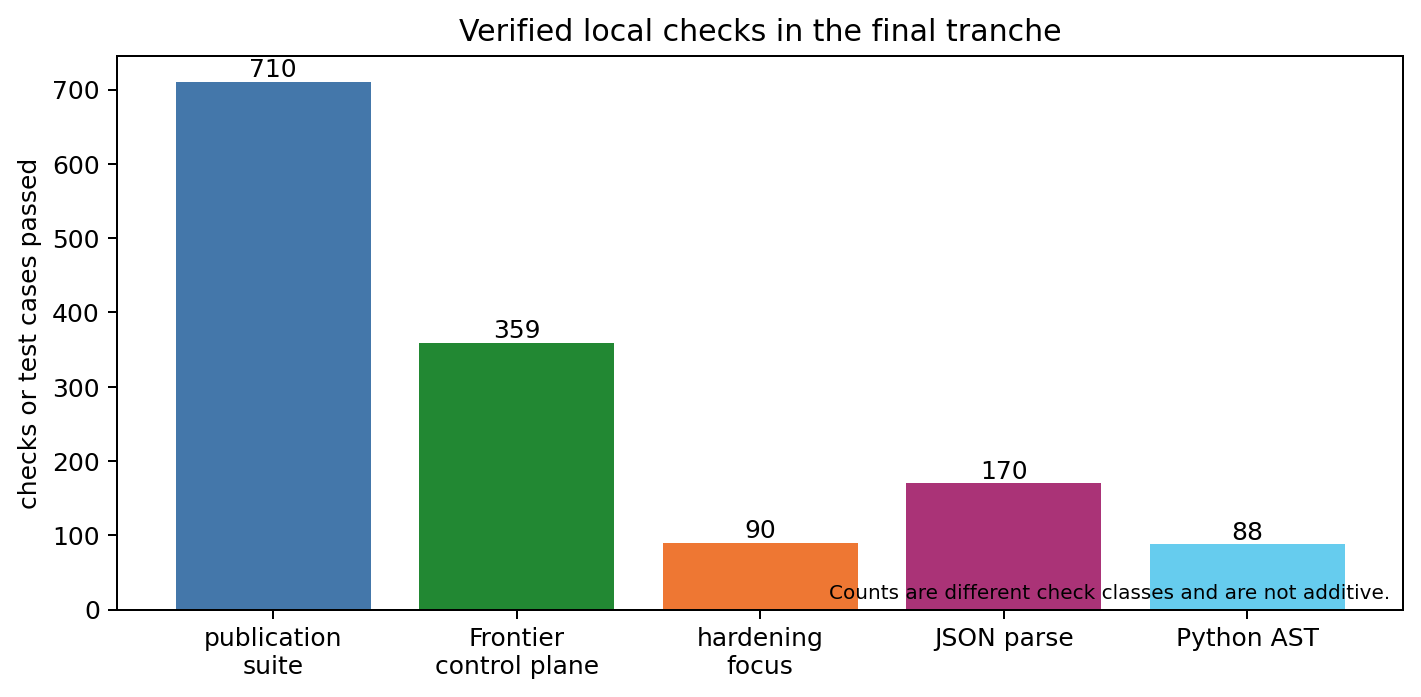
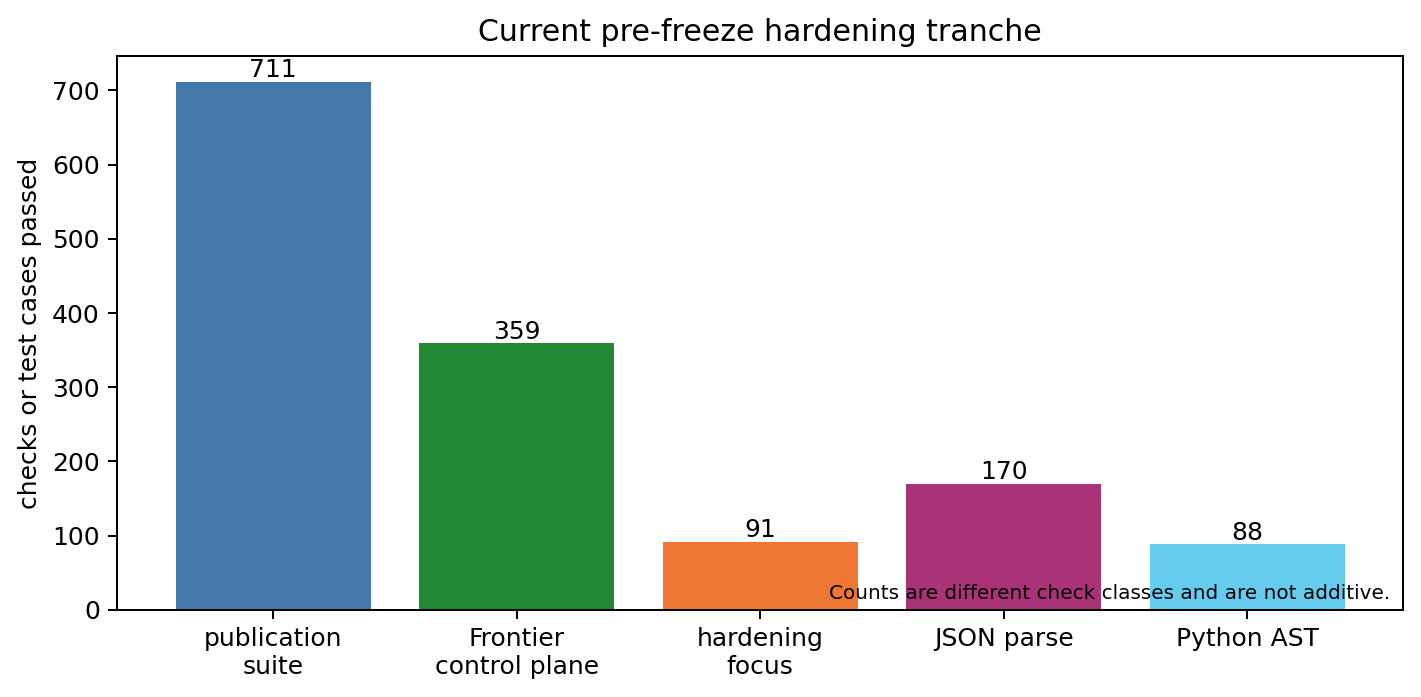
docs(pic): reconcile pre-freeze sealed-snapshot status

diff --git a/STATUS_UPDATE.md b/STATUS_UPDATE.md
@@ -4,7 +4,7 @@
 | --- | --- |
 | Date | 2026-05-31 |
 | Repository | AthenaK MHD-PIC worktree at `/ccs/home/dfielding/athenak-pic` |
-| Branch and commit | `PIC` code-and-control-plane parent commit `bd715a2a2bf7b3c3ac30d7e0cd3b23422c3c837d`; tracking `origin/PIC`; local branch is 104 commits ahead before the report-only snapshot commit |
+| Branch and commit | `PIC` report snapshot commit `897ca86ab61d6393f23122dcb842b1c84360aa18`; tracking `origin/PIC`; local branch is 105 commits ahead before the sealed-snapshot transition repair commit |
 | Agent | Codex |
 | Governing plan | `tst/publication/PIC_PRODUCTION_READINESS_PLAN.md` |
 | Data analyzed | Frozen Q006, Q007, Q008 and Q011 local-readiness artifacts; retained read-only Q023 Bell source-local smoke; authoritative Frontier node-hour ledger |
@@ -35,7 +35,7 @@ The retained Q023 Bell source-local smoke provides a limited physical picture. I
 
 ![Q023 Bell MHD fields and missing same-run PIC output](figures/status_update/q023_bell_mhd_pic_qualitative_gap.png)
 
-*Figure 2. Actual Q023 2D source-local Bell-smoke MHD outputs. The upper-left panel shows the initialized transverse magnetic perturbation $\delta B_z$ at cycle zero. The upper-right and lower-left panels show $\delta B_z$ and $\delta u_z$ after the retained one-cycle restart continuation at $t=0.0015625$. Each quantitative panel has its own labeled color scale. The lower-right panel records the missing same-run particle-space product: CR particles were coupled internally and preserved in restart payloads, but no particle VTK or phase-space snapshot was serialized. This is bounded preparation evidence, not instability-growth qualification.*
+*Figure 2. Actual Q023 2D source-local Bell-smoke MHD outputs. The upper-left panel shows the initialized transverse magnetic perturbation $\delta B_z$ at cycle zero. The upper-right and lower-left panels show $\delta B_z$ and $\delta u_z$ after the retained one-cycle restart continuation at $t=0.0015625$. Each quantitative panel has its own labeled color scale. The lower-right panel records the missing same-run particle-space product: CR particles were coupled internally and restart payloads were retained, but no particle VTK or phase-space snapshot was serialized. This is bounded preparation evidence, not instability-growth qualification.*
 
 The clearest positive scientific-software result in this tranche is the expanding-box circularly polarized Alfvén wave successor, Q008. Its 22 retained cases span expanding, compressing, static, solver, dimensional-axis and resolution checks. For the four literal-profile convergence families, both amplitude and phase residuals fall as the resolution increases from $N_x=32$ to $64$ to $128$. This is an observed three-resolution trend, not an asymptotic-order proof.
 
@@ -59,7 +59,7 @@ The strongest statements we can make are local ones: the bounded successors ran,
 
 The largest remaining uncertainty is not a single bug. It is the unclosed transition from bounded local engineering evidence to physical and operational qualification: long-horizon paper campaigns, calibrated extension comparisons, MPI/GPU and multi-node checks, restart and filesystem failure drills on Frontier, scaling and memory measurements, Orion-retention disposition, and named external review.
 
-Source curation is complete through code-and-control-plane parent commit `bd715a2a2bf7b3c3ac30d7e0cd3b23422c3c837d`. Independent review found two freeze blockers: candidate creation accepted an operator-selected prepared-artifact subset, and retained-tree analyzers reopened Orion pathnames after verification. The committed hardening tranche requires the canonical complete archived deck-and-analyzer inventory and routes Q006, Q007, and Q011 inputs through descriptor-anchored private snapshots; this pending report layer applies the same rule to status-figure inputs. The canonical schema-v4 source-bundle and HIP/MPI executable freeze has not yet been created. The sensible next step is to commit and independently rereview the report layer, install the paired control-plane generation, build the canonical HIP/MPI release executable, and freeze the clean candidate before registering another Frontier slice. The Q006 residual pattern makes AMR/restart parity a priority after that freeze: bind its acceptance threshold before submission and use the slice to test whether decomposition or device execution changes the bounded carrier result. Large paper or extension campaigns should not begin until their campaign-specific registrations, tolerances and independent comparison inputs are frozen.
+Source curation was committed through report snapshot `897ca86ab61d6393f23122dcb842b1c84360aa18`, then a fresh independent audit found a deeper same-account substitution risk in the copied-snapshot handoff. The pending repair keeps verified topology in memory and exposes consumed regular files lazily through sealed Linux `memfd` descriptors. Q006, Q007 and Q011 retained-artifact replays reproduce their archived results through those sealed members. The report generator applies the same anchored sealed-member rule to frozen JSON inputs and the legacy Q023 Bell payloads. The source-side transition policy now clears inherited schema-v3 science registrations and marks the schema-v4 clean-candidate freeze pending. The canonical schema-v4 source bundle and HIP/MPI executable freeze have not yet been created. The sensible next step is to commit and independently rereview this repair, install the paired control-plane generation, build the canonical HIP/MPI release executable, and freeze the clean candidate before registering another Frontier slice. The Q006 residual pattern makes AMR/restart parity a priority after that freeze: bind its acceptance threshold before submission and use the slice to test whether decomposition or device execution changes the bounded carrier result. Large paper or extension campaigns should not begin until their campaign-specific registrations, tolerances and independent comparison inputs are frozen.
 
 # Tier 1: How the analysis works
 
@@ -69,7 +69,7 @@ The software objective was to advance the production-readiness plan while preser
 
 The current evidence flow is:
 
-1. Bind a clean serial-host executable and record its SHA-256.
+1. Bind the retained bounded host executable and record its SHA-256. This historical pin came from a clean build directory over a dirty source worktree; it is not the canonical clean-source release executable.
 2. Materialize a narrowly scoped runtime or source-local successor.
 3. Write all bulk output below `/lustre/orion/ast207/proj-shared/dfielding/PIC`.
 4. Freeze the artifact tree and compute an inventory hash.
@@ -79,13 +79,13 @@ The current evidence flow is:
 
 ![Verifier hardening schematic](figures/status_update/verifier_hardening_schematic.png)
 
-*Figure 6. Schematic summary of verifier hardening. Mutable paths, partial-schema acceptance and loose replay checks were replaced by descriptor-anchored private snapshots, pinned archive or executable hashes, exact schemas, directory closure and bounded diagnostics. This matters because a verifier should reject ambiguous evidence rather than silently reinterpret it.*
+*Figure 6. Schematic summary of verifier hardening. Mutable payload paths, partial-schema acceptance and loose replay checks were replaced by anchored verification, sealed descriptor-backed regular members, immutable topology maps, pinned archive or executable hashes, exact schemas, directory closure and bounded diagnostics. This matters because a verifier should reject ambiguous evidence rather than silently reinterpret it.*
 
 ## 1.2 Frozen inputs
 
 | Artifact | Retained role | Inventory SHA-256 | Retained files | Qualification effect |
 | --- | --- | --- | ---: | --- |
[5 lines of base64/hex data omitted]
@@ -93,7 +93,7 @@ The current evidence flow is:
[2 lines of base64/hex data omitted]
 
[2 lines of base64/hex data omitted]
 
 ## 1.3 Core definitions
 
@@ -198,13 +198,13 @@ Q011 retains 309 particles. Its eight octant counts are `[40, 34, 28, 39, 38, 38
 
 ## 1.5 Validation strategy
 
-The final local validation tranche combined broad test suites, focused regressions, static checks, documentation checks, retained-runtime analysis and visual inspection of the generated figures. The counts below are manually curated observations from this work session, not a retained signed validation receipt. Figure 12 is therefore a visual summary rather than a provenance-bearing test artifact.
+The current pre-freeze local validation tranche combined broad test suites, focused regressions, static checks, documentation checks, retained-runtime analysis and visual inspection of the generated figures. The counts below are manually curated observations from this work session, not a retained signed validation receipt. Figure 12 is therefore a visual summary rather than a provenance-bearing test artifact.
 
 | Validation class | Actual result | Interpretation |
 | --- | --- | --- |
-| Publication Python suite | 710 tests passed; 2 skipped | Combined broad local publication and nested control-plane discovery passed |
+| Publication Python suite | 711 tests passed; 2 skipped | Combined broad local publication and nested control-plane discovery passed |
 | Frontier control-plane suite | 359 tests passed | Registered-lifecycle and accounting controls passed locally |
-| Focused hardening suite | 90 tests passed | Qualification fixtures, immutable snapshots, analyzer substitution rejection and successor-policy registry checks passed |
+| Focused hardening suite | 91 tests passed | Qualification fixtures, immutable snapshots, analyzer substitution rejection and successor-policy registry checks passed |
 | Sphinx warning-as-error build | Passed | Documentation renders without warning regressions |
 | Readiness JSON parse sweep | 170 filesystem JSON files parsed | Readiness, policy and generated figure-metric sidecars are syntactically valid |
 | Python AST sweep | 88 publication Python files parsed | Publication Python sources are syntactically valid |
@@ -214,13 +214,13 @@ The final local validation tranche combined broad test suites, focused regressio
 
 ![Validation summary](figures/status_update/validation_summary.png)
 
-*Figure 12. Manually curated summary of passed local check classes in the final tranche. Counts represent different classes and are not additive; parsed-file counts are not test counts. The inherited repository-wide style baseline remains separately open.*
+*Figure 12. Manually curated summary of passed local check classes in the current pre-freeze hardening tranche. Counts represent different classes and are not additive; parsed-file counts are not test counts. The final clean-tree rerun remains required after the pending repair commit. The inherited repository-wide style baseline remains separately open.*
 
 ## 1.6 Caveats and next-stage plan
 
 The current evidence is strongest for bounded serial-host mechanics and verifier behavior. It is not yet strong enough for physical paper claims or operational production claims. The immediate next-stage sequence is:
 
-1. Commit and rereview the hardening tranche plus report snapshot, install the reviewed control-plane generation and freeze the canonical clean candidate.
+1. Commit and rereview the sealed-snapshot transition repair, install the paired reviewed control-plane generation and freeze the canonical clean candidate.
 2. Close prerequisite-complete registered Frontier MPI/HIP slices one at a time under the existing ledger policy after the freeze.
 3. Add runtime, memory, sorting, deposition, coupling, communication and load-balance telemetry before scaling studies.
 4. Freeze external-reference mappings and tolerances before physical comparison campaigns.
@@ -240,7 +240,7 @@ The governing scientific task is broader than local correctness. It includes rep
 
 This report covers the bounded local-readiness work curated into the current commit series:
 
-- clean serial-host pinning and immutable Orion-tree verification;
+- dirty-worktree bounded host pinning from a clean build directory and immutable Orion-tree verification;
 - Q023 Bell source-local MHD initialization and one-cycle restart-continuation visualization;
 - Q006 exact-isothermal multispecies mechanics successors;
 - Q007 source-local delta-f launch and replay hardening;
@@ -257,7 +257,7 @@ Intentionally deferred work includes production-scale Frontier campaigns, broad 
 
 | Path | Content | Notes |
 | --- | --- | --- |
-| `/lustre/orion/ast207/proj-shared/dfielding/PIC/local-readiness/integrated-serial-host-binary-clean-20260531T034317Z` | Clean executable pin and source archive | Shared local binding anchor |
+| `/lustre/orion/ast207/proj-shared/dfielding/PIC/local-readiness/integrated-serial-host-binary-clean-20260531T034317Z` | Dirty-worktree bounded host pin produced from a clean build directory | Shared local binding anchor only; not the canonical clean-source release executable |
 | `/lustre/orion/ast207/proj-shared/dfielding/PIC/q006-exact-isothermal-runtime-local-20260531-v4` | Q006 runtime tree and `reports/probe_summary.json` | 329 files |
 | `/lustre/orion/ast207/proj-shared/dfielding/PIC/local-readiness/q007-paper-deltaf-runtime-replay-20260531-v4` | Q007 runtime tree | 38 files |
[1 lines of base64/hex data omitted]
@@ -475,9 +475,9 @@ The Q006, Q007, Q008 and Q011 evidence and the Q023 Bell smoke reported here are
 
 | Test | Purpose | Method | Actual result | Tolerance or pass rule | Status |
 | --- | --- | --- | --- | --- | --- |
-| Publication suite | Exercise publication analyzers and verifier contracts | Python unit discovery under `tst/publication` with the control-plane import path | 710 passed, 2 skipped | No failures | Pass |
+| Publication suite | Exercise publication analyzers and verifier contracts | Python unit discovery under `tst/publication` with the control-plane import path | 711 passed, 2 skipped | No failures | Pass |
 | Frontier control-plane suite | Exercise registered lifecycle, immutable promotion and ledger controls | Python unit discovery under `tst/publication/frontier_control_plane` | 359 passed | No failures | Pass |
-| Hardening focus | Stress candidate closure, descriptor snapshots and registry lifecycle | Focused publication tests | 90 passed | No failures | Pass |
+| Hardening focus | Stress candidate closure, descriptor snapshots and registry lifecycle | Focused publication tests | 91 passed | No failures | Pass |
 | Documentation | Detect warning regressions | Sphinx HTML build with `-W --keep-going -E` | Passed | No Sphinx warnings | Pass |
 | Readiness JSON syntax | Detect malformed readiness records | Parse readiness, policy and generated figure-metric JSON files | 170 parsed | No parse errors | Pass |
 | Python syntax | Detect malformed publication Python sources | AST parse sweep | 88 parsed | No syntax errors | Pass |
@@ -525,7 +525,7 @@ Earlier implementation work used independent subagents to split Q006, Q007, Q008
 
 The following statements are supported by retained local evidence:
 
-1. The clean serial-host executable pin and source archive are inventoried and hash-bound.
+1. The dirty-worktree bounded host executable pin and source archive are inventoried and hash-bound. The build directory was clean; the archived source worktree was not.
 2. Q006 uniform mechanics closure is near numerical precision, while SMR and AMR restart carriers expose larger observed short-horizon residuals without a frozen mesh-transition acceptance threshold.
 3. Q007 source-local initialization produces the intended four-branch $10^{-6}/m$ spectrum and exact zero initial delta-f weights for all three startup carriers.
 4. Q008's 22-case bounded serial-host preparation matrix remains inside its coarse preparation guardrails, rejects unsupported Roe use without outputs, and shows decreasing amplitude and phase errors over its retained resolution families.
@@ -595,7 +595,7 @@ The repository-wide C++ style baseline remains open. A fresh wrapper-equivalent 
 
 ## 2.9 Recommended next steps
 
-1. **Immediate:** commit and rereview the hardening tranche plus report snapshot, install the reviewed control-plane generation, build the canonical HIP/MPI release executable and freeze the clean candidate.
+1. **Immediate:** commit and rereview the sealed-snapshot transition repair, install the paired reviewed control-plane generation, build the canonical HIP/MPI release executable and freeze the clean candidate.
 2. **Validation:** run the next prerequisite-complete registered Frontier MPI/HIP slice under the serialized scheduler policy and reconcile the ledger immediately.
 3. **Production preparation:** add runtime and memory telemetry for pusher, deposition, coupling, communication, sorting, AMR, load balance, output and restart paths.
 4. **Scientific qualification:** freeze comparison mappings, extracted reference data, tolerances, fit windows, seeds and uncertainty methods before launching physical Hall Bell, damped-CRSI or adaptive-delta-f CRPAI campaigns. Require same-run particle distribution, current and field snapshots for Bell visualization.
@@ -610,16 +610,16 @@ The repository-wide C++ style baseline remains open. A fresh wrapper-equivalent 
 | Repository path | `/ccs/home/dfielding/athenak-pic` |
 | Resolved path in this environment | `/autofs/nccs-svm1_home2/dfielding/athenak-pic` |
 | Branch | `PIC` |
-| HEAD | Code-and-control-plane parent `bd715a2a2bf7b3c3ac30d7e0cd3b23422c3c837d`; report snapshot pending commit |
+| HEAD | Report snapshot `897ca86ab61d6393f23122dcb842b1c84360aa18`; sealed-snapshot transition repair pending commit |
 | Upstream | `origin/PIC` |
-| Ahead/behind | 104 ahead, 0 behind before the report-only snapshot commit |
-| Worktree | Report snapshot paths remain pending commit |
+| Ahead/behind | 105 ahead, 0 behind before the sealed-snapshot transition repair commit |
+| Worktree | Sealed-snapshot verifier repair, transition policy, regenerated prepared-artifact inventory, refreshed figures and this report update remain pending commit |
 | Deleted files | None observed |
 | New report | `STATUS_UPDATE.md` |
 | New figure generator | `tst/publication/generate_pic_status_update_figures.py` |
 | New figure directory | `figures/status_update/` |
 
-The remaining worktree changes are this report, its fail-closed figure generator, and generated figures. Do not treat the curated commit series as a frozen release baseline until the canonical clean-candidate operation archives the source bundle and HIP/MPI executable together. Inspect the current list with:
+The remaining worktree changes are the sealed-snapshot verifier repair, analyzer routing updates, transition policy, regenerated prepared-artifact inventory, refreshed report generator outputs and this report update. Do not treat the curated commit series as a frozen release baseline until those changes are committed and rereviewed and the canonical clean-candidate operation archives the source bundle and HIP/MPI executable together. Inspect the current list with:
 
 ```bash
 git status --short --branch
@@ -629,14 +629,16 @@ git status --short --branch
 
 | Boundary | Current value | Status |
 | --- | --- | --- |
[6 lines of base64/hex data omitted]
 | Canonical schema-v4 freeze | Not yet created | Open Phase 0 gate |
 
-The live policy intentionally keeps its installed and staged fields paired at
-the historical generation until promotion. The successor digest is recorded
-separately in
+The live installed policy intentionally remains paired at the historical
+generation until promotion. The pending source-side transition policy pairs
+both controller fields at the successor digest, clears inherited science
+registrations and marks the schema-v4 freeze pending. The successor digest is
+recorded separately in
 `tst/publication/readiness/phase0_curated_candidate_successor_2026-05-31.json`.
 This prevents a reviewed source generation from being confused with an
 installed or authorized production baseline.
@@ -666,7 +668,7 @@ Run from the repository root:
 python3 tst/publication/generate_pic_status_update_figures.py
 ```
 
[2 lines of base64/hex data omitted]
 
 ```text
 figures/status_update/
@@ -684,7 +686,41 @@ figures/status_update/figure_metrics.json
 python3 tst/publication/generate_pic_status_update_figures.py
 ```
 
-Do not replace that command with a `sha256sum` listing of manifest files. The generator uses `tst/publication/immutable_orion_tree.py` for inventory membership, payload hashes and recursive modes, applies a legacy aggregate read-only check to the older Q023 Bell smoke, then imports the paired installed control plane selected by `policy/active_promotion.json` to validate active policy and the mirrored ledger chain. A later legitimate ledger append requires an intentional report-snapshot refresh rather than silent figure drift.
+Do not replace that command with a `sha256sum` listing of manifest files. The generator uses `tst/publication/immutable_orion_tree.py` for inventory membership, payload hashes, recursive modes, anchored legacy-Q023 traversal and sealed lazy payload materialization, then imports the paired installed control plane selected by `policy/active_promotion.json` to validate active policy and the mirrored ledger chain. A later legitimate ledger append requires an intentional report-snapshot refresh rather than silent figure drift.
+
+### Local Python validation
+
+Run the broad publication suite with the nested control-plane modules on `PYTHONPATH`:
+
+```bash
+PYTHONDONTWRITEBYTECODE=1 \
+PYTHONPATH=.:tst/publication/frontier_control_plane \
+python3 -B -m unittest discover -s tst/publication -p 'test_*.py' -q
+```
+
+Run the control-plane suite independently:
+
+```bash
+PYTHONDONTWRITEBYTECODE=1 \
+PYTHONPATH=. \
+python3 -B -m unittest discover \
+  -s tst/publication/frontier_control_plane -p 'test_*.py' -q
+```
+
+The focused sealed-snapshot and rebinding rerun is:
+
+```bash
+PYTHONDONTWRITEBYTECODE=1 \
+PYTHONPATH=. \
+python3 -B -m unittest -q \
+  tst.publication.test_pic_qualification_manifest \
+  tst.publication.test_immutable_orion_tree \
+  tst.publication.test_analyze_q011_injection_distribution_runtime_local \
+  tst.publication.test_analyze_q006_paper_multispecies_oscillation_runtime_local \
+  tst.publication.test_analyze_q007_paper_deltaf_linear_preparation \
+  tst.publication.test_pic_readiness_registry.PicReadinessRegistryTests.test_storage_policy_records_authorized_frontier_boundary \
+  tst.publication.test_pic_readiness_registry.PicReadinessRegistryTests.test_registered_science_staged_bindings_recompute_from_exact_files
+```
 
 ### Documentation verification
 
@@ -712,7 +748,41 @@ python3 -m venv /tmp/athenak-pic-docs-venv
 git diff --check
 ```
 
-The final tranche also ran readiness-JSON parsing, Python AST parsing, touched-file C++ lint and a repository-wide C++ baseline lint. The changed-file lint wrapper and direct lint of the new Q006 C++ source passed. The repository-wide baseline remains open: a fresh wrapper-equivalent read-only scan reported 1,454 findings while the retained Q042 sidecar records 1,456. No single retained final receipt closes that inherited-debt count.
+Parse the exact filesystem JSON scope, including the two `tst/.codex` Bell-materialization files and generated report metrics:
+
+```bash
+python3 - <<'PY'
+import json
+from pathlib import Path
+paths = sorted({*Path("tst").rglob("*.json"), *Path("figures").rglob("*.json")})
+for path in paths:
+    json.loads(path.read_text(encoding="utf-8"))
+print(len(paths))
+PY
+```
+
+Parse the publication Python sources:
+
+```bash
+python3 - <<'PY'
+import ast
+from pathlib import Path
+paths = sorted(Path("tst/publication").rglob("*.py"))
+for path in paths:
+    ast.parse(path.read_text(encoding="utf-8"), filename=str(path))
+print(len(paths))
+PY
+```
+
+The touched C++ lint and repository-wide baseline commands are:
+
+```bash
+python3 tst/scripts/style/cpplint.py \
+  src/pgen/tests/q006_paper_multispecies_oscillation_runtime_local.cpp
+bash tst/scripts/style/check_athena_cpp_style.sh
+```
+
+The changed-file lint and direct lint of the new Q006 C++ source passed. The repository-wide baseline remains open: a fresh wrapper-equivalent read-only scan reported 1,454 findings while the retained Q042 sidecar records 1,456. No single retained final receipt closes that inherited-debt count.
 
 ### Scheduler policy
 
@@ -757,8 +827,8 @@ The next-stage compute cost cannot be estimated defensibly yet because productio
 | --- | --- | --- | ---: | --- | --- |
 | `STATUS_UPDATE.md` | This multi-tier report | Generated | Markdown text | Yes | Yes, with editorial work |
 | `figures/status_update/` | Report figures and plotted metrics | Generated | Small report bundle | Yes | Yes |
-| `tst/publication/generate_pic_status_update_figures.py` | Fail-closed figure generator | Report-only snapshot path | Python source | Yes | Include in report-only commit |
-| `/lustre/orion/ast207/proj-shared/dfielding/PIC/local-readiness/integrated-serial-host-binary-clean-20260531T034317Z` | Clean serial-host pin | Frozen | 26.6 MiB | Yes | Rebuildable, but preserve this pin |
+| `tst/publication/generate_pic_status_update_figures.py` | Fail-closed figure generator | Tracked report snapshot path with pending sealed-member repair | Python source | Yes | Preserve after repair commit |
+| `/lustre/orion/ast207/proj-shared/dfielding/PIC/local-readiness/integrated-serial-host-binary-clean-20260531T034317Z` | Dirty-worktree bounded host pin from clean build directory | Frozen | 26.6 MiB | Yes | Preserve as bounded local evidence; never reuse as canonical release executable |
 | `/lustre/orion/ast207/proj-shared/dfielding/PIC/q006-exact-isothermal-runtime-local-20260531-v4` | Q006 mechanics artifacts | Frozen | 1.15 GiB | Yes | Rerunnable, but preserve retained evidence |
 | `/lustre/orion/ast207/proj-shared/dfielding/PIC/local-readiness/q007-paper-deltaf-runtime-replay-20260531-v4` | Q007 replay artifacts | Frozen | 112.2 MiB | Yes | Rerunnable, but preserve retained evidence |
 | `/lustre/orion/ast207/proj-shared/dfielding/PIC/local-readiness/q007-paper-deltaf-runtime-replay-20260531-v4-analysis.json` | Q007 adjacent exact analysis input for report figures | Read-only adjacent JSON; SHA-256 `bd1eb4dc...` | 53.0 KiB | Yes | Rerunnable, but preserve retained evidence |
@@ -851,7 +921,7 @@ Human input is required before:
 
 # Appendix B: Review disposition
 
-Five independent post-draft reviews were completed and reconciled. The reviewers checked different reading depths so that a correction made for one audience did not silently leave a stronger claim in another tier.
+Five independent post-draft reviews were completed and reconciled before report snapshot commit `897ca86ab61d6393f23122dcb842b1c84360aa18`. A later independent code audit found the same-account copied-snapshot substitution blocker described above. Its sealed-member repair is pending a fresh stable-boundary rereview before paired installation or freeze.
 
 | Review | Audit focus | Material disposition |
 | --- | --- | --- |
@@ -860,5 +930,6 @@ Five independent post-draft reviews were completed and reconciled. The reviewers
 | Tier 2 expert audit | Definitions, support for claims, validation and caveats | Added Q006 deck scope, Q007 convention caveats, Q008 oracle limitations, Q011 contract limits and manually curated validation-count caveats |
 | Tier 3 reproducibility audit | Paths, commands, accounting and handoff | Hardened the generator around verified inventories, active policy, mirrored ledgers, adjacent Q007 digest and the explicitly pinned ledger tail |
 | Adversarial whole-report challenge | Overstatement, hidden assumptions, negative results and cross-tier consistency | Narrowed implemented-path claims, preserved rejected operational chronology and the stale Q008 probe, reported failed-node-hour consumption and replaced the draft marker in this appendix |
+| Post-snapshot code audit | Same-account substitution and stable-boundary freeze safety | Rejected the copied-path snapshot handoff; pending repair uses anchored topology maps, sealed lazy regular members and context-local Q006/Q007 routing |
 
-The reconciliation deliberately rejected any suggestion that would promote bounded local preparation into physical qualification or Frontier production readiness. The remaining open gates are listed in Sections 2.8 and 3.5.
+The reconciliation deliberately rejected any suggestion that would promote bounded local preparation into physical qualification or Frontier production readiness. A fresh independent review of the pending repair remains mandatory. The remaining open gates are listed in Sections 2.8 and 3.5.
